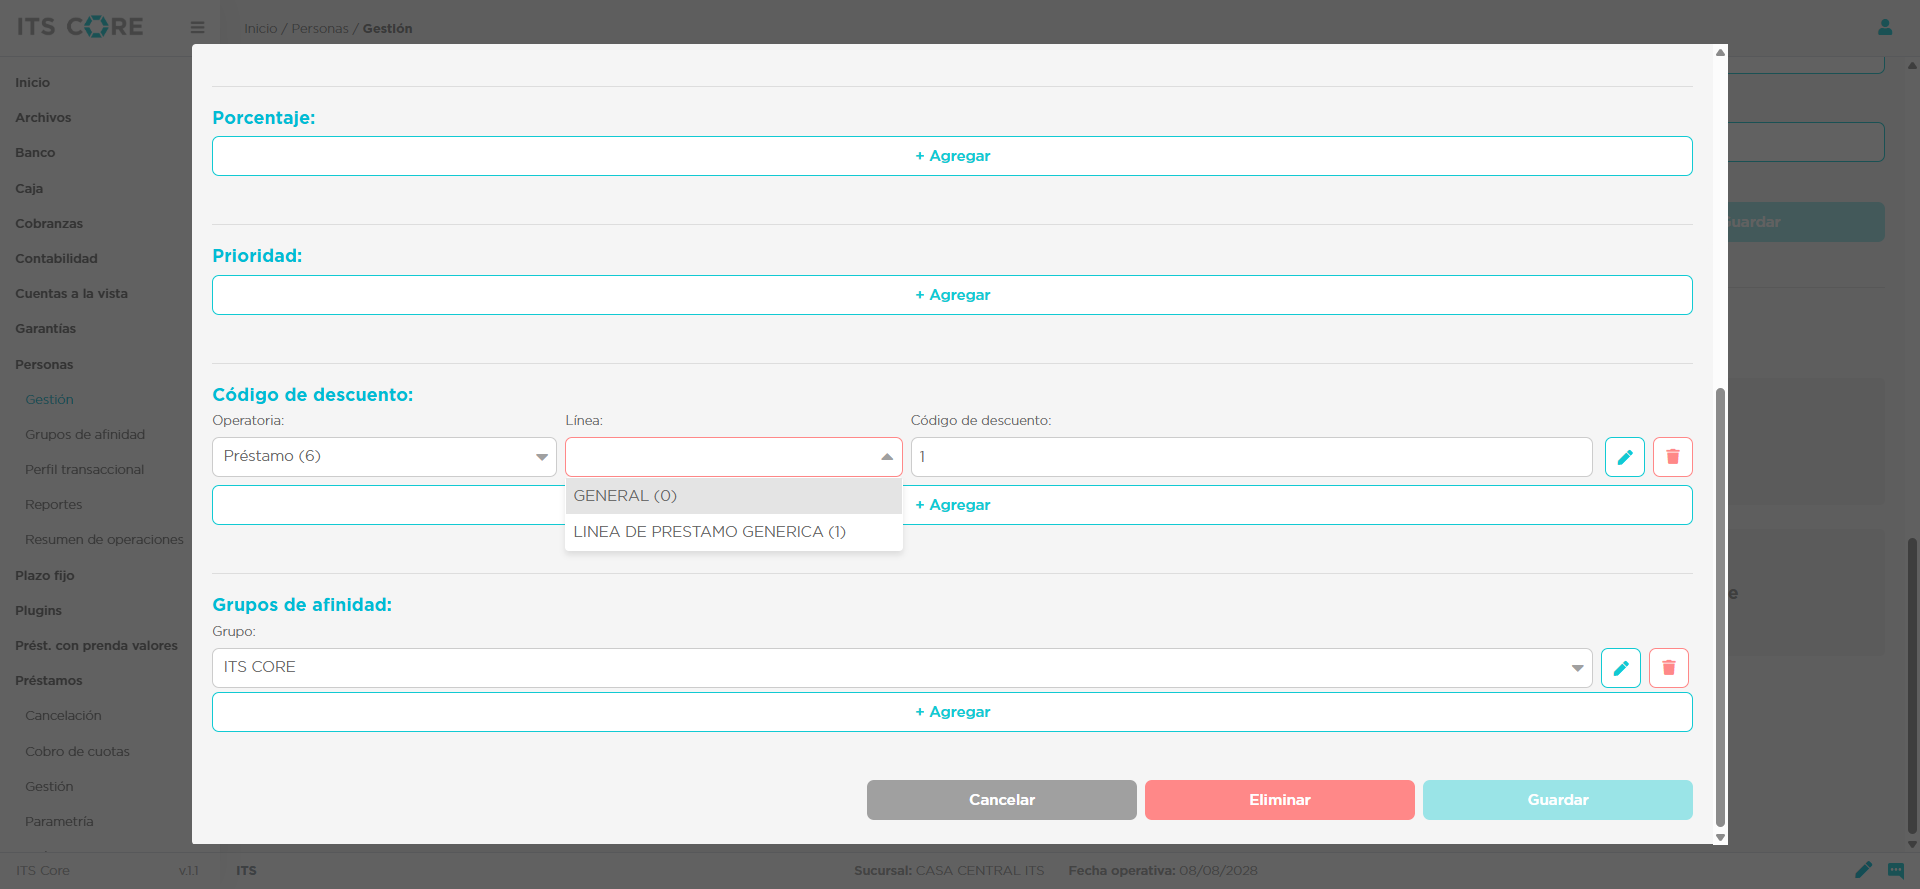
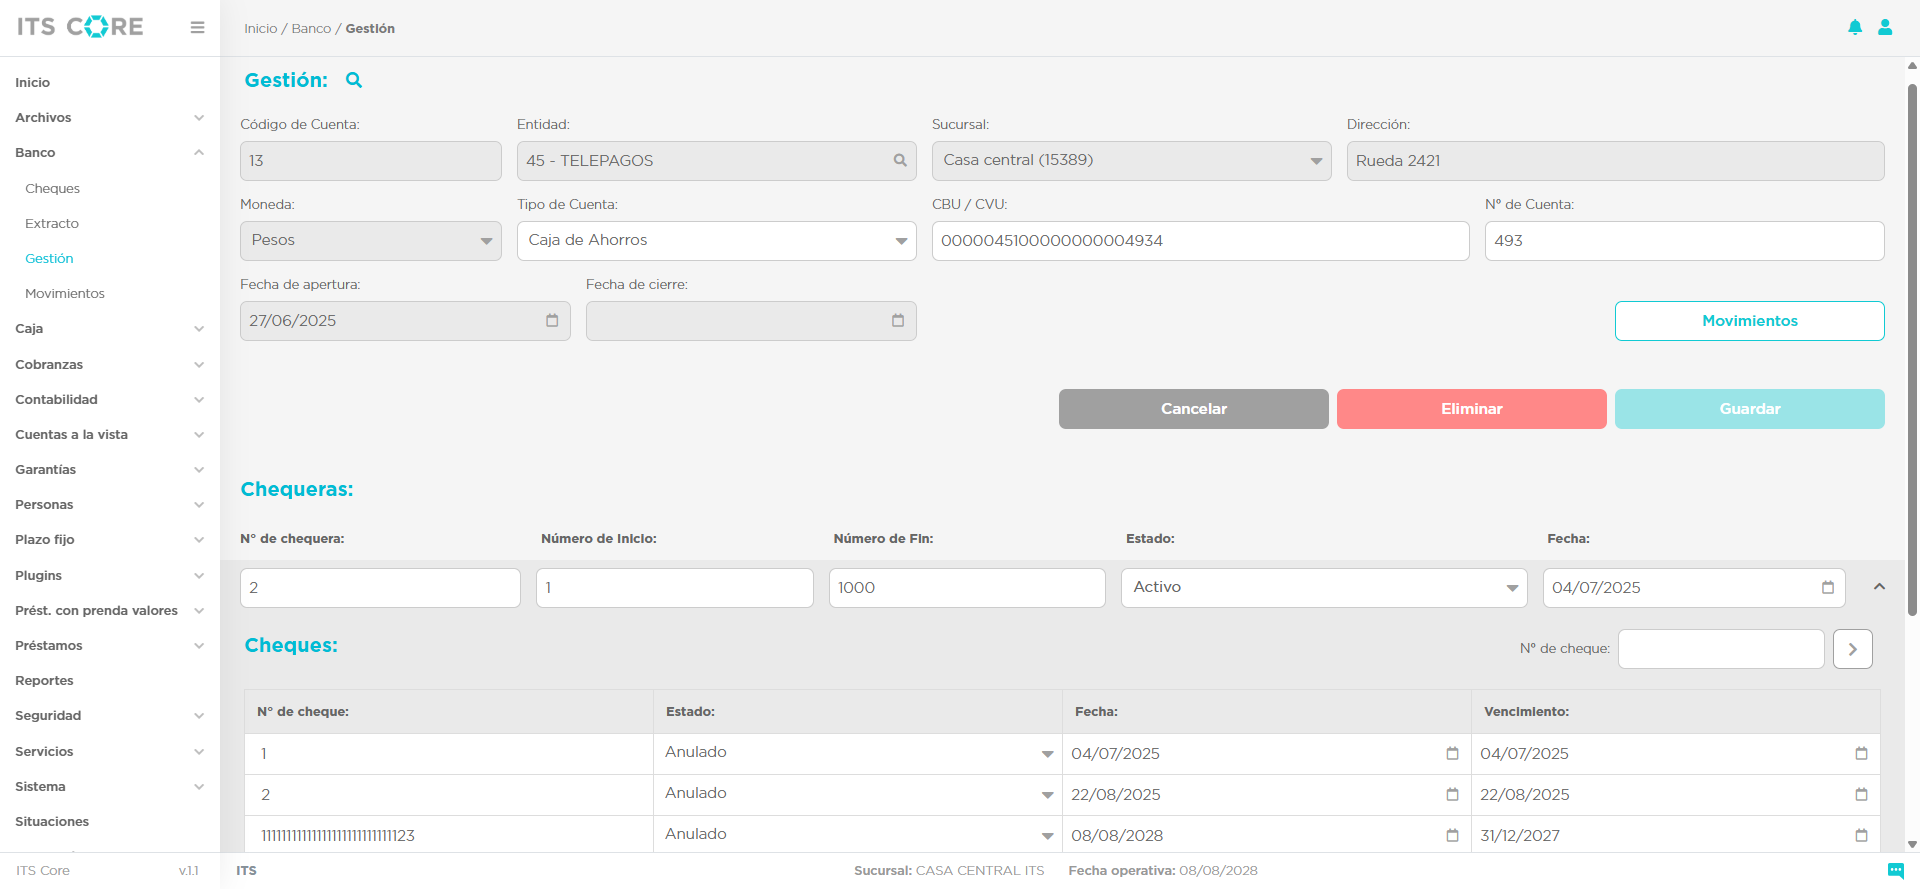
se corrio el set de pruebas y se corrigieron los errores en los test

diff --git a/Plazo_Fijo_3_Cancelacion/T01_Cancelar_PF_test.py b/Plazo_Fijo_3_Cancelacion/T01_Cancelar_PF_test.py
@@ -10,7 +10,7 @@ from webdriver_manager.chrome import ChromeDriverManager
 sys.path.append(os.path.abspath(os.path.join(os.path.dirname(__file__), '..')))
 
 from Pages.base_page import (
-    find_and_send_keys_clickable,
+    find_and_send_keys,
     find_and_click,
     seleccionar_opcion_ng_select_js,
     copiar_y_pegar_importe_3,
@@ -26,8 +26,8 @@ class Test_PlazoFijo_Cancelacion(unittest.TestCase):
     def test_cancelar_plazo_fijo(self):
         driver = self.driver
 
-        find_and_send_keys_clickable(driver, (By.XPATH, "//input[@placeholder='Usuario']"), "joaquinluna")
-        find_and_send_keys_clickable(driver, (By.XPATH, "//input[@placeholder='Clave']"), "joaquin")
+        find_and_send_keys(driver, (By.XPATH, "//input[@placeholder='Usuario']"), "joaquinluna")
+        find_and_send_keys(driver, (By.XPATH, "//input[@placeholder='Clave']"), "joaquin")
         print("🔵 INGRESO CREDENCIALES")
         find_and_click(driver, (By.XPATH, "//button[normalize-space()='Ingresar']"))
         print("🔵 INGRESO A LA PLATAFORMA")
@@ -36,13 +36,10 @@ class Test_PlazoFijo_Cancelacion(unittest.TestCase):
         find_and_click(driver, (By.LINK_TEXT, "Cancelación"))
         print("🔵 INGRESO AL MODULO DE PLAZO FIJO CANCELACION")
 
-        find_and_send_keys_clickable(driver, (By.XPATH, "//input[@formcontrolname='linea']"), "11")
-        print("🔵 INGRESO DE LINEA")
-
         find_and_click(driver, (By.XPATH, "//div[@class='col-md-2']//button[@type='button']"))
         print("🔵 CLICK LUPITA")
 
-        find_and_send_keys_clickable(driver, (By.XPATH, "//input[@formcontrolname='documento']"), "27205799104")
+        find_and_send_keys(driver, (By.XPATH, "//input[@formcontrolname='documento']"), "27205799104")
         print("🔵 INGRESO DNI")    
 
         find_and_click(driver, (By.XPATH, "//button[normalize-space()='Buscar']"))
@@ -60,11 +57,13 @@ class Test_PlazoFijo_Cancelacion(unittest.TestCase):
         print("🔵 CLICK BOTON CONTINUAR")
 
         find_and_click(driver, (By.XPATH, "//ng-select[@formcontrolname='formaPago']"))
+        time.sleep(0.5)
         seleccionar_opcion_ng_select_js(driver, "Cuenta a la vista")
         print("🔵 SELECCION FORMA PAGO CUENTA A LA VISTA")
 
         find_and_click(driver, (By.XPATH, "//ng-select[@formcontrolname='cuentaDestino']"))
-        seleccionar_opcion_ng_select_js(driver, "PROV. INFORMATICA")
+        time.sleep(0.5)
+        seleccionar_opcion_ng_select_js(driver, "PROV. INFORMATICA") 
         print("🔵 SELECCION CUENTA DESTINO")
 
         copiar_y_pegar_importe_3(driver)

diff --git a/Banco_Gestion/T01_CrearCuentaBco_test.py b/Banco_Gestion/T01_CrearCuentaBco_test.py
@@ -5,6 +5,7 @@ from selenium.webdriver.chrome.service import Service as ChromeService
 from webdriver_manager.chrome import ChromeDriverManager
 import os
 import sys
+import time
 
 sys.path.append(os.path.abspath(os.path.join(os.path.dirname(__file__), '..')))
 
@@ -21,7 +22,7 @@ class TestCrearCuentaBanco(unittest.TestCase):
         self.driver.maximize_window()
         self.driver.get("http://qa.itscore.its.com.ar:3080/#/login")
 
-    def test_crear_cuenta(self):
+    def test_crear_cuenta_banco(self):
         driver = self.driver
 
         find_and_send_keys(driver, (By.XPATH, "//input[@placeholder='Usuario']"), "joaquinluna")
@@ -40,6 +41,7 @@ class TestCrearCuentaBanco(unittest.TestCase):
         
         find_and_click(driver, (By.XPATH, "//td[normalize-space()='TELEPAGOS']"))
         print("🔵 SELECCION DE ENTIDAD")
+        time.sleep(0.5)
         
         find_and_click(driver, (By.XPATH, "//ng-select[@formcontrolname='moneda']//input[@type='text']"))
         seleccionar_opcion_ng_select(driver, "Pesos")
@@ -57,7 +59,7 @@ class TestCrearCuentaBanco(unittest.TestCase):
         find_and_click(driver, (By.XPATH, "//button[normalize-space()='Crear']"))
         print("🔵 CLICK BOTON CREAR")
 
-        validar_mensaje_snackbar_async_crear(driver, "//button[normalize-space()='Aceptar']", "La cuenta se creó correctamenteeeeee.")
+        validar_mensaje_snackbar_async_crear(driver, "//button[normalize-space()='Aceptar']", "La cuenta se creó correctamente.")
 
     def tearDown(self):
         test_fallo = False

diff --git a/Plazo_Fijo_1_Parametria/T01_Crear_Linea_PF_test.py b/Plazo_Fijo_1_Parametria/T01_Crear_Linea_PF_test.py
@@ -1,12 +1,10 @@
 import os
 import sys
-import time
 import unittest
 from selenium import webdriver
 from selenium.webdriver.common.by import By
 from selenium.webdriver.chrome.service import Service as ChromeService
 from webdriver_manager.chrome import ChromeDriverManager
-from selenium.webdriver.common.keys import Keys
 
 sys.path.append(os.path.abspath(os.path.join(os.path.dirname(__file__), '..')))
 
@@ -45,10 +43,9 @@ class Test_PlazoFijo_Parametria(unittest.TestCase):
         find_and_send_keys(driver, (By.XPATH, "//app-custom-date[@formcontrolname='fechaDesde']//input[@type='text']"), "10112027")
         print("🔵 INGRESO FECHA DESDE")
 
-        input_moneda = find_and_send_keys(driver, (By.XPATH, "//ng-select[@formcontrolname='moneda']//input[@type='text']"), "Pesos")
-        time.sleep(0.5)
-        input_moneda.send_keys(Keys.ENTER)
-        print("🔵 INGRESO MONEDA PESOS")
+        find_and_click(driver, (By.XPATH, "//ng-select[@formcontrolname='moneda']//input[@type='text']"))
+        seleccionar_opcion_ng_select_js(driver, "Pesos")
+        print("🔵 INGRESO MONEDA")
 
         find_and_click(driver, (By.XPATH, "//input[@formcontrolname='renovacionAutomatica']/following-sibling::span"))
         find_and_click(driver, (By.XPATH, "//input[@formcontrolname='actualizaInteresConCadaRenovacion']/following-sibling::span"))

diff --git a/Banco_Gestion/T04_AgregarCheque_test.py b/Banco_Gestion/T04_AgregarCheque_test.py
@@ -53,18 +53,11 @@ class TestAgregarCheque(unittest.TestCase):
         input_numero_cheque = (By.XPATH, "//tbody/tr[last()]//input[@id='numero']")
         find_and_send_keys(driver, input_numero_cheque, numero_cheque_unico)
         print("🔵INGRESANDO NUMERO CHEQUE")
-
-        find_and_send_keys(driver, (By.XPATH, "//tbody/tr[last()]/td[2]//input"), "Cheque de prueba")
-        print("🔵INGRESANDO DESCRIPCION")
-
-        find_and_send_keys(driver, (By.XPATH, "//tbody/tr[last()]/td[3]//input"), "Cheque de prueba")
-        print("🔵INGRESANDO CONCEPTO")
         
-        find_and_send_keys(driver, (By.XPATH, "//tbody/tr[last()]/td[4]//app-custom-date//input"), "31/12/2027")
+        find_and_send_keys(driver, (By.XPATH, "//tbody/tr[last()]/td[4]//app-custom-date//input"), "31/12/2030")
         print("🔵INGRESANDO FECHA VENCIMIENTO")
 
-
-        validar_mensaje_snackbar_async_guardar_boton(driver, "//button[@type='submit']", "Chequera actualizada correctamente")
+        validar_mensaje_snackbar_async_guardar_boton(driver, "//div[@class='d-flex justify-content-end mt-4']//button[@type='button'][normalize-space()='Guardar']", "Chequera actualizada correctamente")
 
     def tearDown(self):
         test_fallo = False

diff --git a/Personas/GruposDeAfinidad/T02_Grupo_sin_relaciones_test.py b/Personas/GruposDeAfinidad/T02_Grupo_sin_relaciones_test.py
@@ -6,6 +6,8 @@ from selenium import webdriver
 from selenium.webdriver.common.by import By
 from selenium.webdriver.chrome.service import Service as ChromeService
 from webdriver_manager.chrome import ChromeDriverManager
+from selenium.webdriver.support.ui import WebDriverWait
+from selenium.webdriver.support import expected_conditions as EC
 
 sys.path.append(os.path.abspath(os.path.join(os.path.dirname(__file__), '..', '..')))
 
@@ -33,9 +35,10 @@ class TestGrupoAfinidad(unittest.TestCase):
         find_and_click_with_scroll(driver, (By.LINK_TEXT, "Personas"))
         find_and_click_with_scroll(driver, (By.LINK_TEXT, "Grupos de afinidad"))
         print("🔵 INGRESO AL MODULO")
-        time.sleep(0.5)
 
-        filas = driver.find_elements(By.XPATH, "//tr[contains(@class, 'tr-body')]")
+        wait = WebDriverWait(driver, 10)
+        filas = wait.until(EC.presence_of_all_elements_located((By.XPATH, "//tr[contains(@class, 'tr-body')]")))
+
         encontrado = False
 
         for fila in filas:

diff --git a/Contabilidad_AU/T03_Asiento_monedas_distintas_test.py b/Contabilidad_AU/T03_Asiento_monedas_distintas_test.py
@@ -41,7 +41,7 @@ class TestAsientosAutomaticos(unittest.TestCase):
         seleccionar_opcion_ng_select_with_filter(driver, (By.XPATH, "//ng-select[@formcontrolname='operacion_id']//input[@type='text']"), "DEBITO POR MOVIMIENTO ENTRE CUENTAS")
         print("🔵 SELECCION OPERACION")
 
-        seleccionar_opcion_ng_select_with_filter(driver, (By.XPATH, "//ng-select[@class='form-select ng-select-custom ng-select-searchable ng-select ng-select-single ng-untouched ng-pristine ng-invalid']//input[@type='text']"), "1 BANCO BBVA ARGENTINA S.A.")
+        seleccionar_opcion_ng_select_with_filter(driver, (By.XPATH, "//ng-select[@formcontrolname='linea_id']//input[@type='text']"), "1 BANCO BBVA ARGENTINA S.A.")
         print("🔵 SELECCION LINEA")
 
         find_and_send_keys(driver, (By.XPATH, "//input[@class='form-control form-control-sm text-left pl-2']"), "21082025")

diff --git a/Prestamos/Prestamos_02_Gestion/T01_Crear_Prestamo_test.py b/Prestamos/Prestamos_02_Gestion/T01_Crear_Prestamo_test.py
@@ -62,6 +62,8 @@ class Test_Prestamos_Gestion(unittest.TestCase):
         find_and_send_keys(driver, (By.XPATH, "//input[@id='cuotas']"), "6")
         print("🔵 INGRESO CUOTAS")
 
+        find_and_send_keys(driver, (By.XPATH, "//input[@id='TN']"), "10")
+
         find_and_click(driver, (By.XPATH, "//div[@class='row mt-4']//i[@class='fas fa-search']"))
         print("🔵 CLICK EN LA LUPITA VENDEDOR")
 
